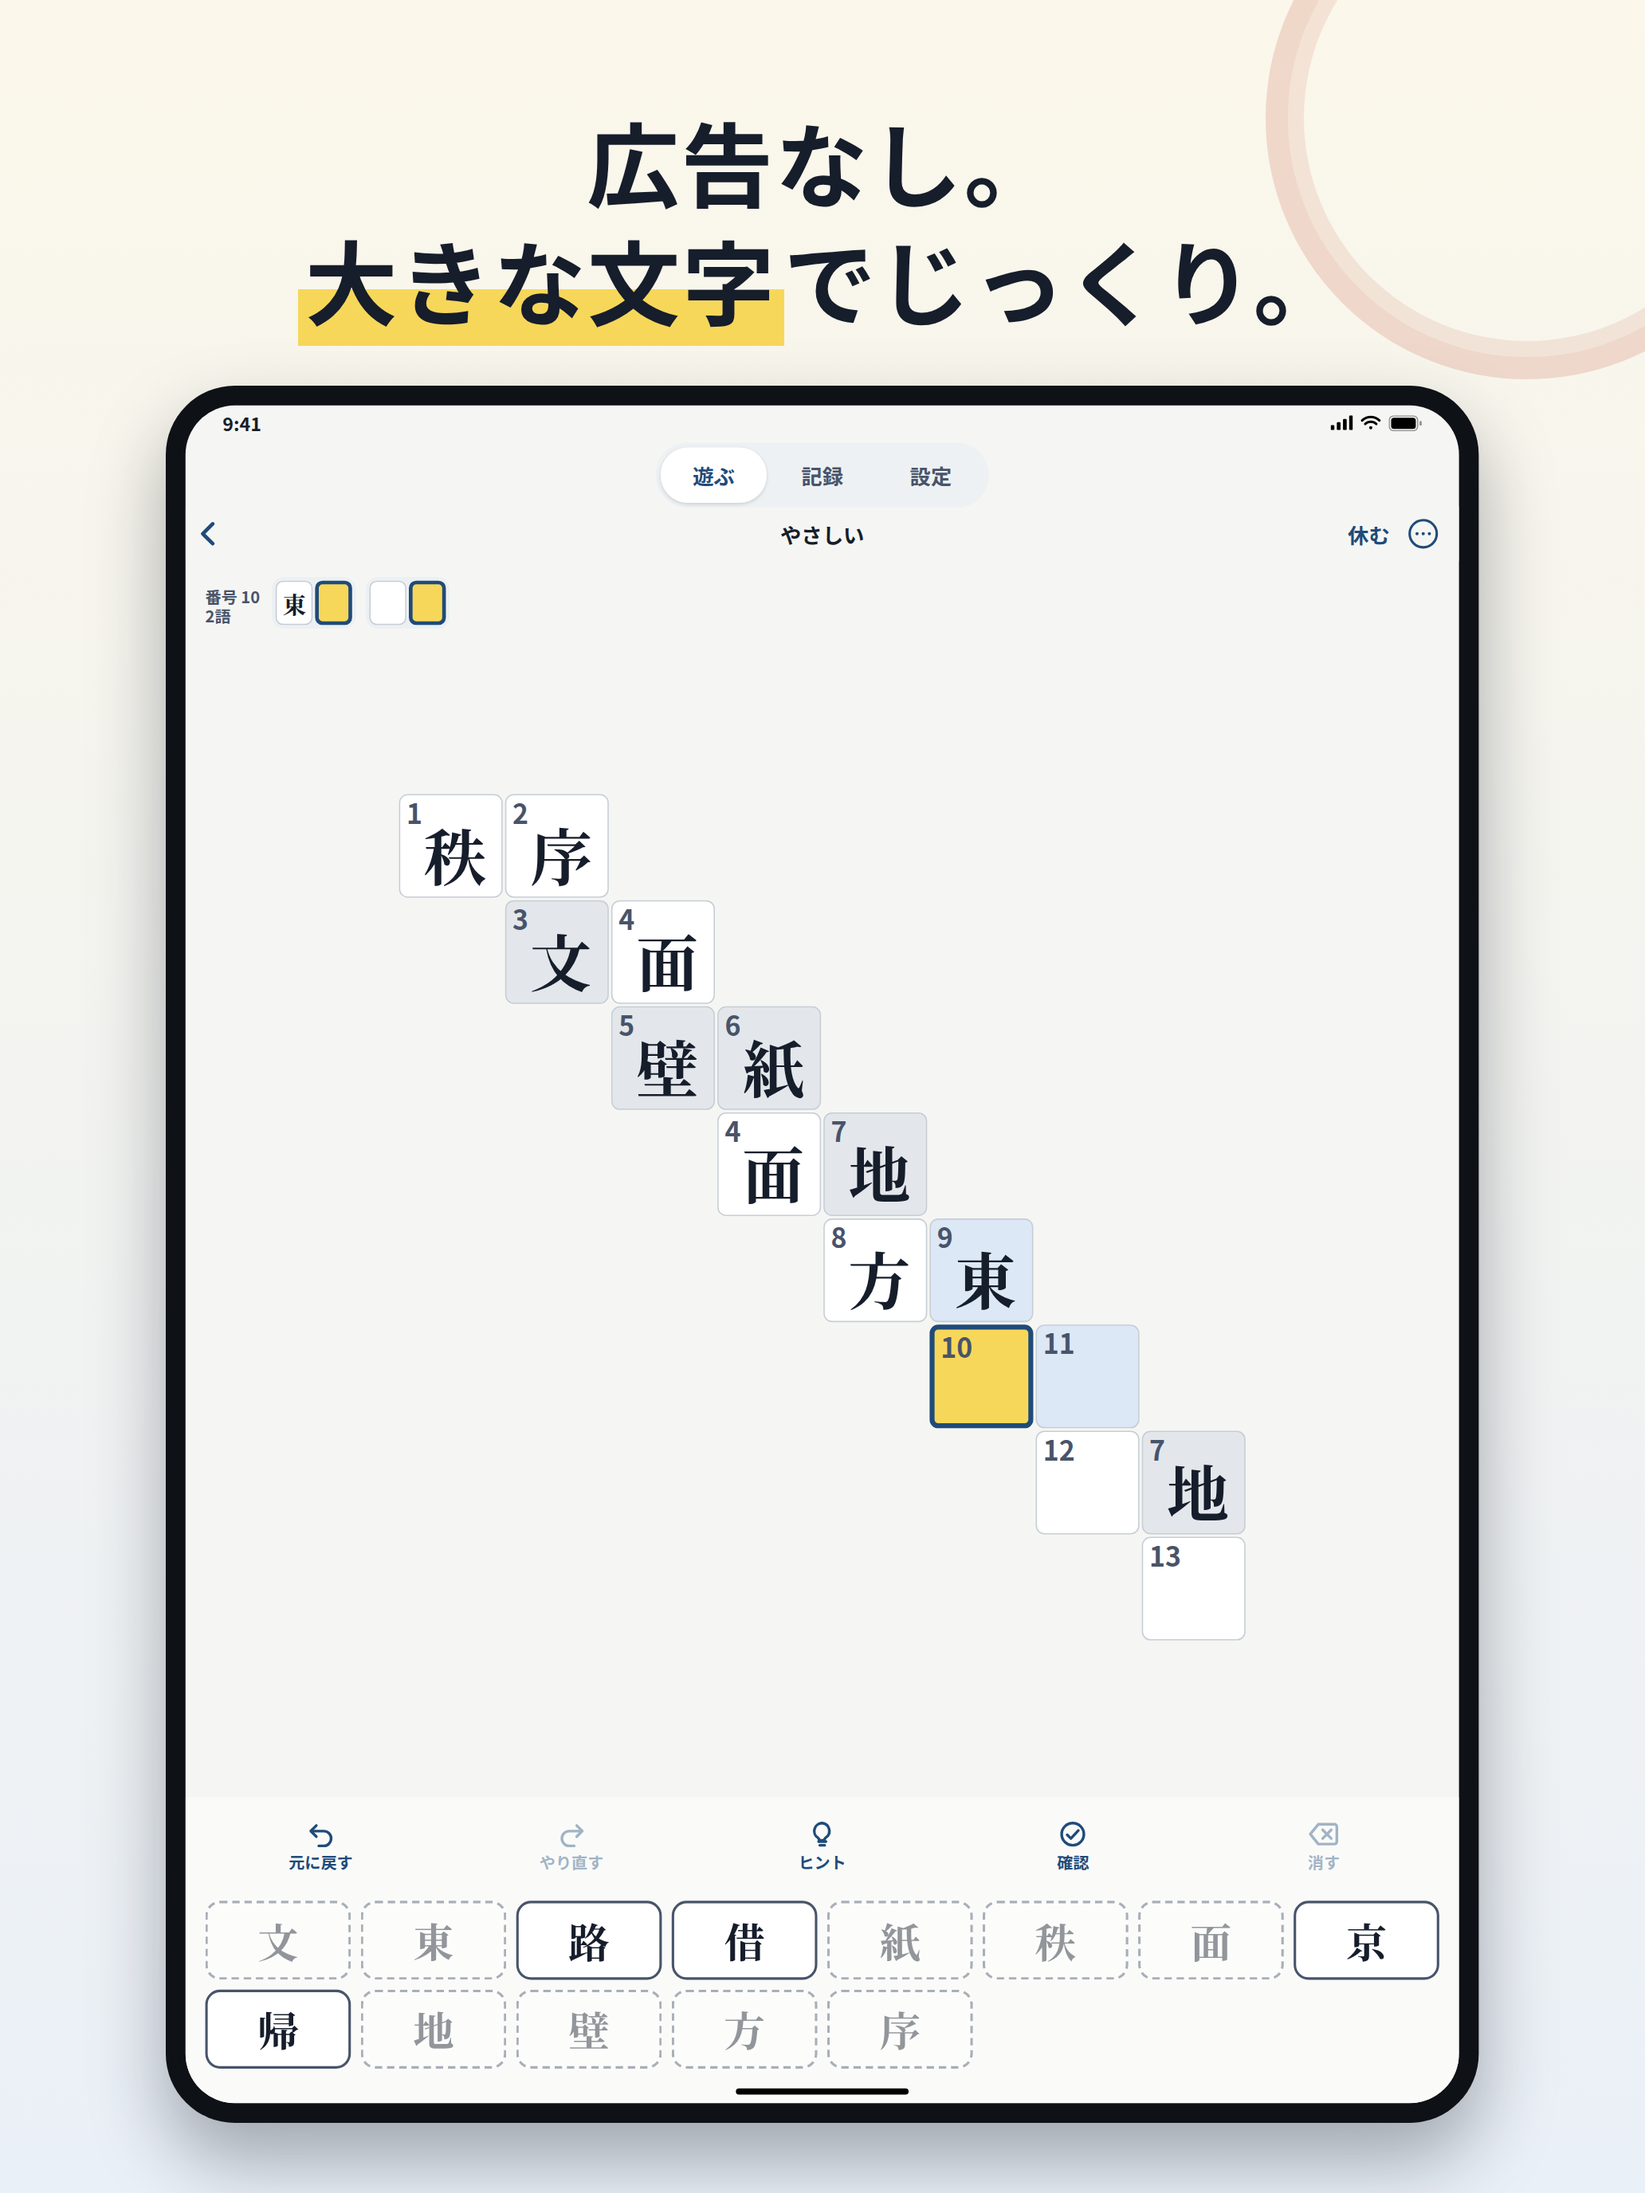
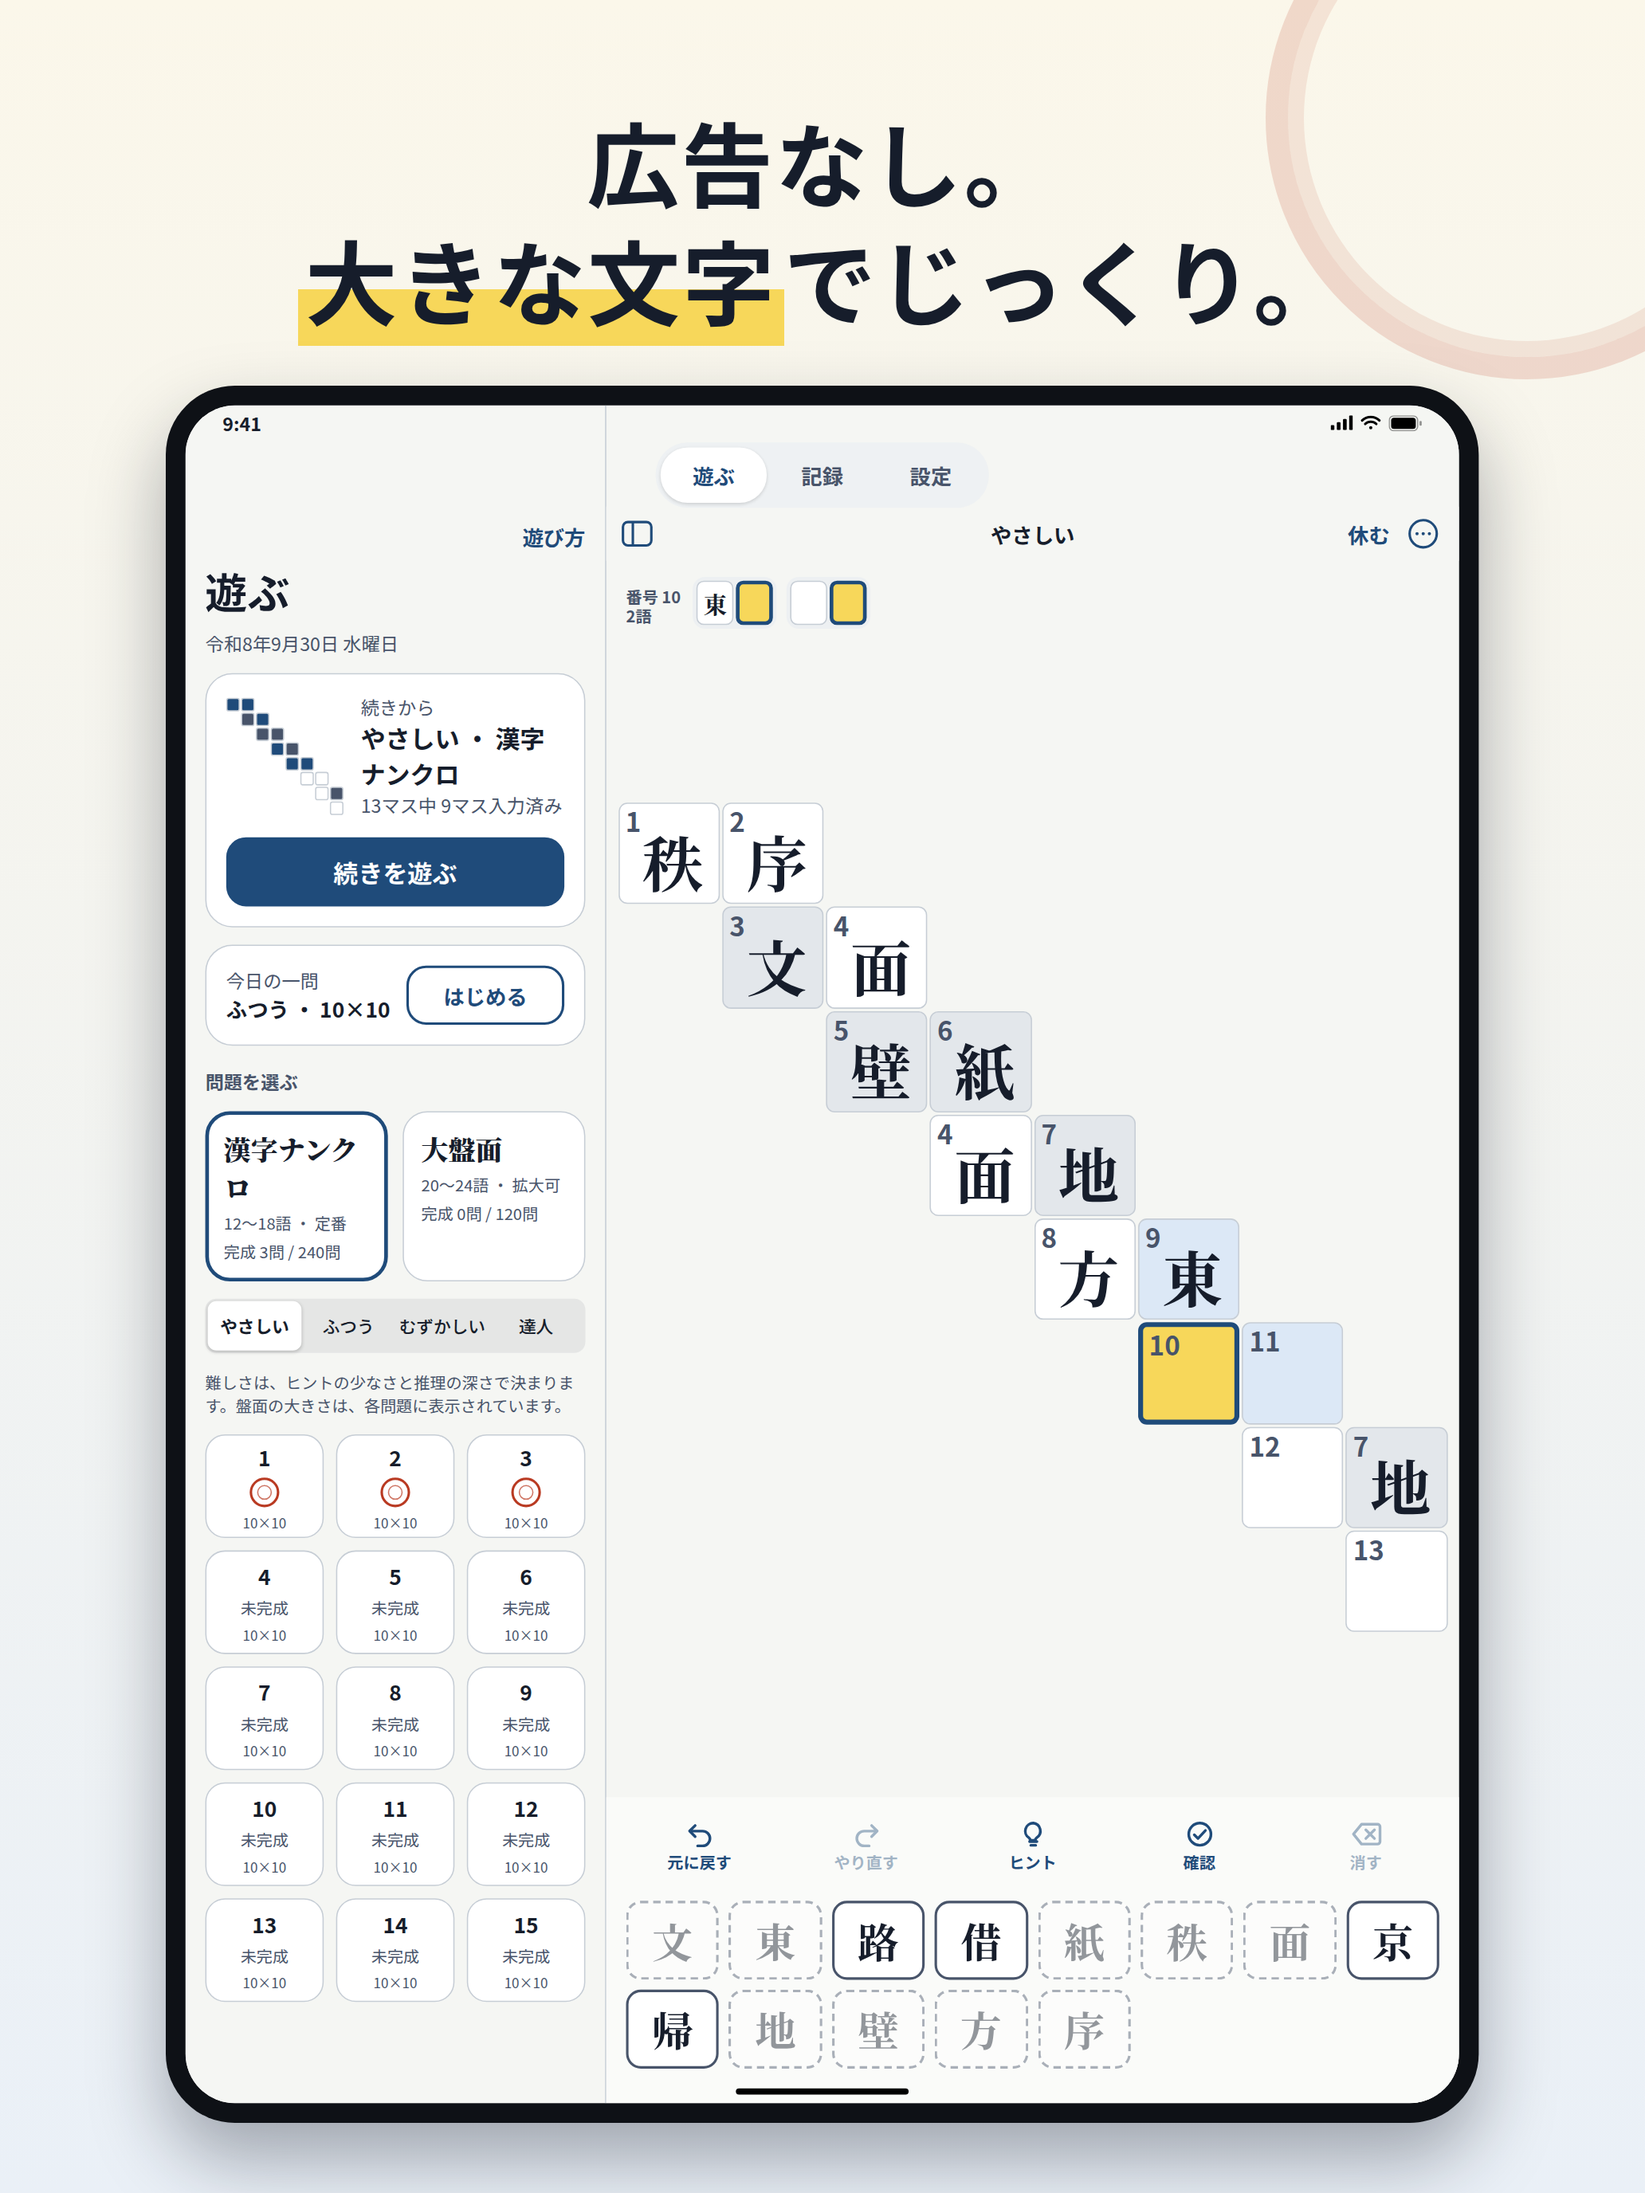
Make iPad screenshots match the real split-view scale (340pt sidebar, 692pt board pane, 540pt sheet)
Claude-Session: https://claude.ai/code/session_01P5wJjzuJZd5qxvgZfibraX

diff --git a/app-store/screenshots/mock/mock.html b/app-store/screenshots/mock/mock.html
@@ -119,12 +119,35 @@ body,html{width:auto;height:auto}
   border-radius:26px;padding:4px;gap:2px;z-index:6;font-size:17px;font-weight:600}
 .tabs span{padding:10px 26px;border-radius:22px;color:var(--ink2);display:flex;gap:8px;align-items:center}
 .tabs span.on{background:#fff;color:var(--accentText);box-shadow:0 1px 3px rgba(0,0,0,.15)}
-.sheet.pad{left:166px;right:166px;top:250px;bottom:auto;border-radius:26px;padding-top:56px}
+.sheet.pad{left:246px;right:246px;top:150px;bottom:auto;border-radius:26px;padding-top:56px}
 .sheet.pad .res{position:relative;top:0}
 .sheet.pad .nav{position:absolute;top:0;left:0;right:0}
-.sheet.pad .stats{grid-template-columns:repeat(5,1fr)}
-.sheet.pad .words{grid-template-columns:repeat(4,1fr)}
+.sheet.pad .words{grid-template-columns:repeat(3,1fr)}
 .sheet.pad .hrow{display:flex;gap:18px;align-items:center}
+
+/* iPad sidebar (PlayRootView.sidebar) */
+.side{position:absolute;left:0;top:0;width:340px;height:100%;background:var(--canvas);overflow:hidden}
+.side .lt{position:absolute;left:16px;font-size:34px;font-weight:700;letter-spacing:.01em}
+.side .go{position:absolute;right:16px;color:var(--accentText);font-weight:700;font-size:17px}
+.side .in{position:absolute;left:0;width:340px;padding:0 16px;display:flex;flex-direction:column;gap:14px}
+.side .sub{font-size:15px;color:var(--ink2)} .side .subb{font-size:15px;font-weight:700;color:var(--ink2);margin-top:4px}
+.side .fn{font-size:13px;color:var(--ink2)}
+.kc{background:var(--card);border:1px solid var(--line);border-radius:22px;padding:16px;display:flex;flex-direction:column;gap:8px}
+.pmini{display:grid;gap:1px}.pmini i{width:11px;height:11px;border-radius:2px;border:1px solid var(--line);background:var(--card)}
+.pmini i.s{background:var(--ink2)}.pmini i.f{background:var(--accent)}.pmini i.e{border:none;background:none}
+.mtile{flex:1;min-height:96px;border-radius:20px;background:var(--card);border:1px solid var(--line);padding:14px;display:flex;flex-direction:column;gap:4px}
+.mtile.on{border:3px solid var(--accent);padding:12px}
+.mtile b{font-size:22px;font-weight:900}.mtile span{font-size:13px;color:var(--ink2)}
+.seg{display:flex;background:rgba(118,118,128,.12);border-radius:9px;padding:2px;height:44px}
+.seg span{flex:1;display:flex;align-items:center;justify-content:center;font-size:14px;font-weight:500;border-radius:7px}
+.seg span.on{background:#fff;box-shadow:0 1px 3px rgba(0,0,0,.18);font-weight:600}
+.pgrid{display:grid;grid-template-columns:repeat(3,1fr);gap:10px}
+.pt{min-height:84px;border-radius:16px;background:var(--card);border:1px solid var(--line);display:flex;flex-direction:column;align-items:center;justify-content:center;gap:4px}
+.pt.sel,.pt.prog{border:3px solid var(--accent)}
+.pt b{font-size:17px;font-weight:600}.pt span{font-size:13px;color:var(--ink2)}.pt em{font-style:normal;font-size:11px;color:var(--ink2)}
+.stamp{width:24px;height:24px;border-radius:50%;border:2.6px solid var(--stamp);position:relative}
+.stamp:after{content:"";position:absolute;inset:4px;border-radius:50%;border:1.7px solid rgba(185,58,34,.7)}
+.pane{position:absolute;top:0;overflow:visible}
 </style>
 </head>
 <body>
@@ -138,7 +161,7 @@ const PAD = qs.get('d') === 'ipad';
 const D = PAD
   ? {W:1032,H:1376,status:24,nav:50,top:0,bottomInset:20,cols:8,tile:64,act:72,pad:10,bezel:16,radius:40,capFont:58,capTop:64,avail:1090,capW:1032}
   : {W:440,H:956,status:59,nav:44,top:0,bottomInset:34,cols:6,tile:50,act:60,pad:6,bezel:12,radius:56,capFont:31,capTop:34,avail:770,capW:440};
-const STAGE = {w:D.W, h:D.H};
+const PX = PAD ? 340 : 0, PW = D.W - PX;   // detail pane: PlayLayout.make(paneSize:) is given PW, not the screen width
 const sol = P.solution, starters = P.starterCells;
 const numAt = {}; // "r,c" -> n
 for (const [k,v] of Object.entries(P.cellNumbers)) numAt[k]=v;
@@ -163,6 +186,7 @@ const icon = {
   check:'<svg width="24" height="22" viewBox="0 0 24 22" fill="none" stroke="currentColor" stroke-width="2.2" stroke-linecap="round" stroke-linejoin="round"><circle cx="12" cy="11" r="9"/><path d="m7.500 11.500 3 3 6-6.500"/></svg>',
   del:'<svg width="26" height="22" viewBox="0 0 26 22" fill="none" stroke="currentColor" stroke-width="2.2" stroke-linecap="round" stroke-linejoin="round"><path d="M9 3h13a2 2 0 0 1 2 2v12a2 2 0 0 1-2 2H9L2.500 11z"/><path d="m12.500 7.500 7 7M19.500 7.500l-7 7"/></svg>',
   more:'<svg width="26" height="26" viewBox="0 0 26 26" fill="none" stroke="currentColor" stroke-width="2"><circle cx="13" cy="13" r="11"/><circle cx="8" cy="13" r="1.300" fill="currentColor" stroke="none"/><circle cx="13" cy="13" r="1.300" fill="currentColor" stroke="none"/><circle cx="18" cy="13" r="1.300" fill="currentColor" stroke="none"/></svg>',
+  side:'<svg width="26" height="22" viewBox="0 0 26 22" fill="none" stroke="currentColor" stroke-width="2"><rect x="1.500" y="1.500" width="23" height="19" rx="4"/><path d="M9.500 2v18"/></svg>',
   ok:'<svg width="22" height="22" viewBox="0 0 24 24" fill="none"><circle cx="12" cy="12" r="11" fill="#2A7350"/><path d="m6.800 12.300 3.700 3.700 6.800-7.500" stroke="#fff" stroke-width="2.400" stroke-linecap="round" stroke-linejoin="round"/></svg>',
   okline:'<svg width="20" height="20" viewBox="0 0 24 24" fill="none" stroke="currentColor" stroke-width="2"><circle cx="12" cy="12" r="10"/><path d="m7.500 12.500 3 3 6-6.500" stroke-linecap="round" stroke-linejoin="round"/></svg>',
   chev:'<svg width="12" height="20" viewBox="0 0 12 20" fill="none" stroke="currentColor" stroke-width="3" stroke-linecap="round" stroke-linejoin="round"><path d="M10 2 2 10l8 8"/></svg>',
@@ -176,7 +200,7 @@ const statusBar = () => `<div class="status ${PAD?"pad":""}"><span>9:41</span><s
 /* ---- board (fit rules from BoardFit: spacing 2, padding 6 on iPhone) ---- */
 function boardHTML(top, height) {
   const pad = D.pad, sp = 2;
-  const size = Math.min(84, Math.max(40, Math.min((D.W-2*pad-sp*(P.columns-1))/P.columns, (height-2*pad-sp*(P.rows-1))/P.rows)));
+  const size = Math.min(84, Math.max(40, Math.min((PW-2*pad-sp*(P.columns-1))/P.columns, (height-2*pad-sp*(P.rows-1))/P.rows)));
   const related = new Set();
   if (S.selected) for (const w of wordsOf(S.selected)) numsOf(w).forEach(n => related.add(n));
   if (S.selected) related.delete(S.selected);
@@ -199,6 +223,40 @@ function boardHTML(top, height) {
 
 const chip = span => `<div class="chip">${numsOf(span).map(n =>
   `<div class="slot serif ${n===S.selected?'sel':''}">${S.entries[n]||''}</div>`).join('')}</div>`;
+
+function sidebarHTML(navTop) {
+  const done = S.status==='completed' ? 4 : 3;
+  const filled = Object.keys(S.entries).length;
+  let mini = '';
+  for (let r=0;r<P.rows;r++) for (let c=0;c<P.columns;c++) {
+    const n = numAt[`${r},${c}`];
+    mini += !n ? '<i class="e"></i>' : `<i class="${starters[n]?'s':(S.entries[n]?'f':'')}"></i>`;
+  }
+  const resume = S.status==='active' ? `<div class="kc"><div style="display:flex;gap:14px;align-items:center">
+      <div class="pmini" style="grid-template-columns:repeat(${P.columns},11px)">${mini}</div>
+      <div><div class="sub">続きから</div><div style="font-size:20px;font-weight:700">やさしい ・ 漢字ナンクロ</div>
+      <div class="sub">${Object.keys(sol).length}マス中 ${filled}マス入力済み</div></div></div>
+      <div class="btn p" style="margin-top:8px">続きを遊ぶ</div></div>` : '';
+  const SEL = 52;   // this puzzle is #52 of the 55 やさしい 漢字ナンクロ puzzles
+  const tiles = Array.from({length:15},(_,i)=>i+1).map(n => {
+    const d = n<=3, prog = S.status==='active' && n===SEL;
+    return `<div class="pt ${prog?'prog':''}"><b>${n}</b>${d?'<div class="stamp"></div>':(prog?'<span style="color:var(--accentText)">途中</span>':'<span>未完成</span>')}<em>10×10</em></div>`;
+  }).join('');
+  return `<div class="side"><div class="go" style="top:${navTop+12}px">遊び方</div>
+    <div class="lt" style="top:${navTop+44}px">遊ぶ</div>
+    <div class="in" style="top:${navTop+44+56}px">
+      <div class="sub">令和8年9月30日 水曜日</div>${resume}
+      <div class="kc"><div style="display:flex;align-items:center;justify-content:space-between">
+        <div><div class="sub">今日の一問</div><div style="font-size:17px;font-weight:600">ふつう ・ 10×10</div></div>
+        <div class="btn s" style="width:128px">はじめる</div></div></div>
+      <div class="subb">問題を選ぶ</div>
+      <div style="display:flex;gap:12px">
+        <div class="mtile on"><b class="serif">漢字ナンクロ</b><span>12〜18語 ・ 定番</span><span>完成 ${done}問 / 240問</span></div>
+        <div class="mtile"><b class="serif">大盤面</b><span>20〜24語 ・ 拡大可</span><span>完成 0問 / 120問</span></div></div>
+      <div class="seg"><span class="on">やさしい</span><span>ふつう</span><span>むずかしい</span><span>達人</span></div>
+      <div class="fn">難しさは、ヒントの少なさと推理の深さで決まります。盤面の大きさは、各問題に表示されています。</div>
+      <div class="pgrid">${tiles}</div></div></div>`;
+}
 
 function playScreen() {
   const active = S.status==='active';
@@ -227,10 +285,10 @@ function playScreen() {
   const stripTop = navTop+D.nav;
   const boardTop = stripTop+56, boardH = D.H - boardTop - bottomH;
   const tabs = PAD ? `<div class="tabs"><span class="on">遊ぶ</span><span>記録</span><span>設定</span></div>` : '';
-  return `${statusBar()}${tabs}
-    <div class="nav" style="top:${navTop}px"><div class="back">${icon.chev}</div><div class="t">${{easy:'やさしい'}[P.difficulty]}</div>
+  return `${PAD?sidebarHTML(navTop):''}${statusBar()}${tabs}<div class="pane" style="left:${PX}px;width:${PW}px;height:${D.H}px;${PAD?'border-left:1px solid var(--line);background:var(--canvas)':''}">
+    <div class="nav" style="top:${navTop}px"><div class="back">${PAD?icon.side:icon.chev}</div><div class="t">${{easy:'やさしい'}[P.difficulty]}</div>
       <div class="trail">${active?'<span>休む</span>':''}${icon.more}</div></div>
-    <div class="strip" style="top:${stripTop}px">${strip}</div>${boardHTML(boardTop, boardH)}${bottom}<div class="home"></div>`;
+    <div class="strip" style="top:${stripTop}px">${strip}</div>${boardHTML(boardTop, boardH)}${bottom}</div><div class="home"></div>`;
 }
 
 function resultsSheet() {
@@ -247,7 +305,7 @@ function resultsSheet() {
     <div class="res">
       <div class="stats">${stat('時間','0:07:18')}${stat('自己ベスト','0:07:18')}${stat('修正','1回')}${stat('ヒント','0回')}${stat('間違い確認','1回')}</div>
       <div class="saved">${icon.okline}<span>完成盤は「記録」に保存されました</span></div>
-      <div class="kcard"><div class="${PAD?'hrow':''}">
+      <div class="kcard"><div>
         <div class="mini" style="grid-template-columns:repeat(${P.columns},26px)">${mini}</div>
         <div><div class="word44 serif">${span.word}</div><div class="read">${span.reading}</div>
         <div class="hint" style="margin-top:4px">タップした熟語のマスが黄色になります。</div></div>

diff --git a/app-store/screenshots/README.md b/app-store/screenshots/README.md
@@ -7,7 +7,7 @@ Two sets, same three captions from the top-level README ("Screenshot captions"):
 
 Mocks, not device captures: drawn from the real bundled puzzle `nankuro-v2-81dbdb7e0f43672a75fa`
 (やさしい, 8x8) using the app's theme tokens, PlayLayout numbers (iPhone: 6-column tray, 50pt tiles;
-iPad: 8-column tray, 64pt tiles, 84pt squares) and Japanese strings. Replace with simulator/device
+iPad 13" portrait: NavigationSplitView with the 340pt puzzle-list sidebar, so the board pane is 692pt wide -> 82pt squares, 8-column tray of 64pt tiles; results appear as a 540pt iPad sheet) and Japanese strings. Replace with simulator/device
 captures before submission.
 
 | File | Caption | Scenario |
